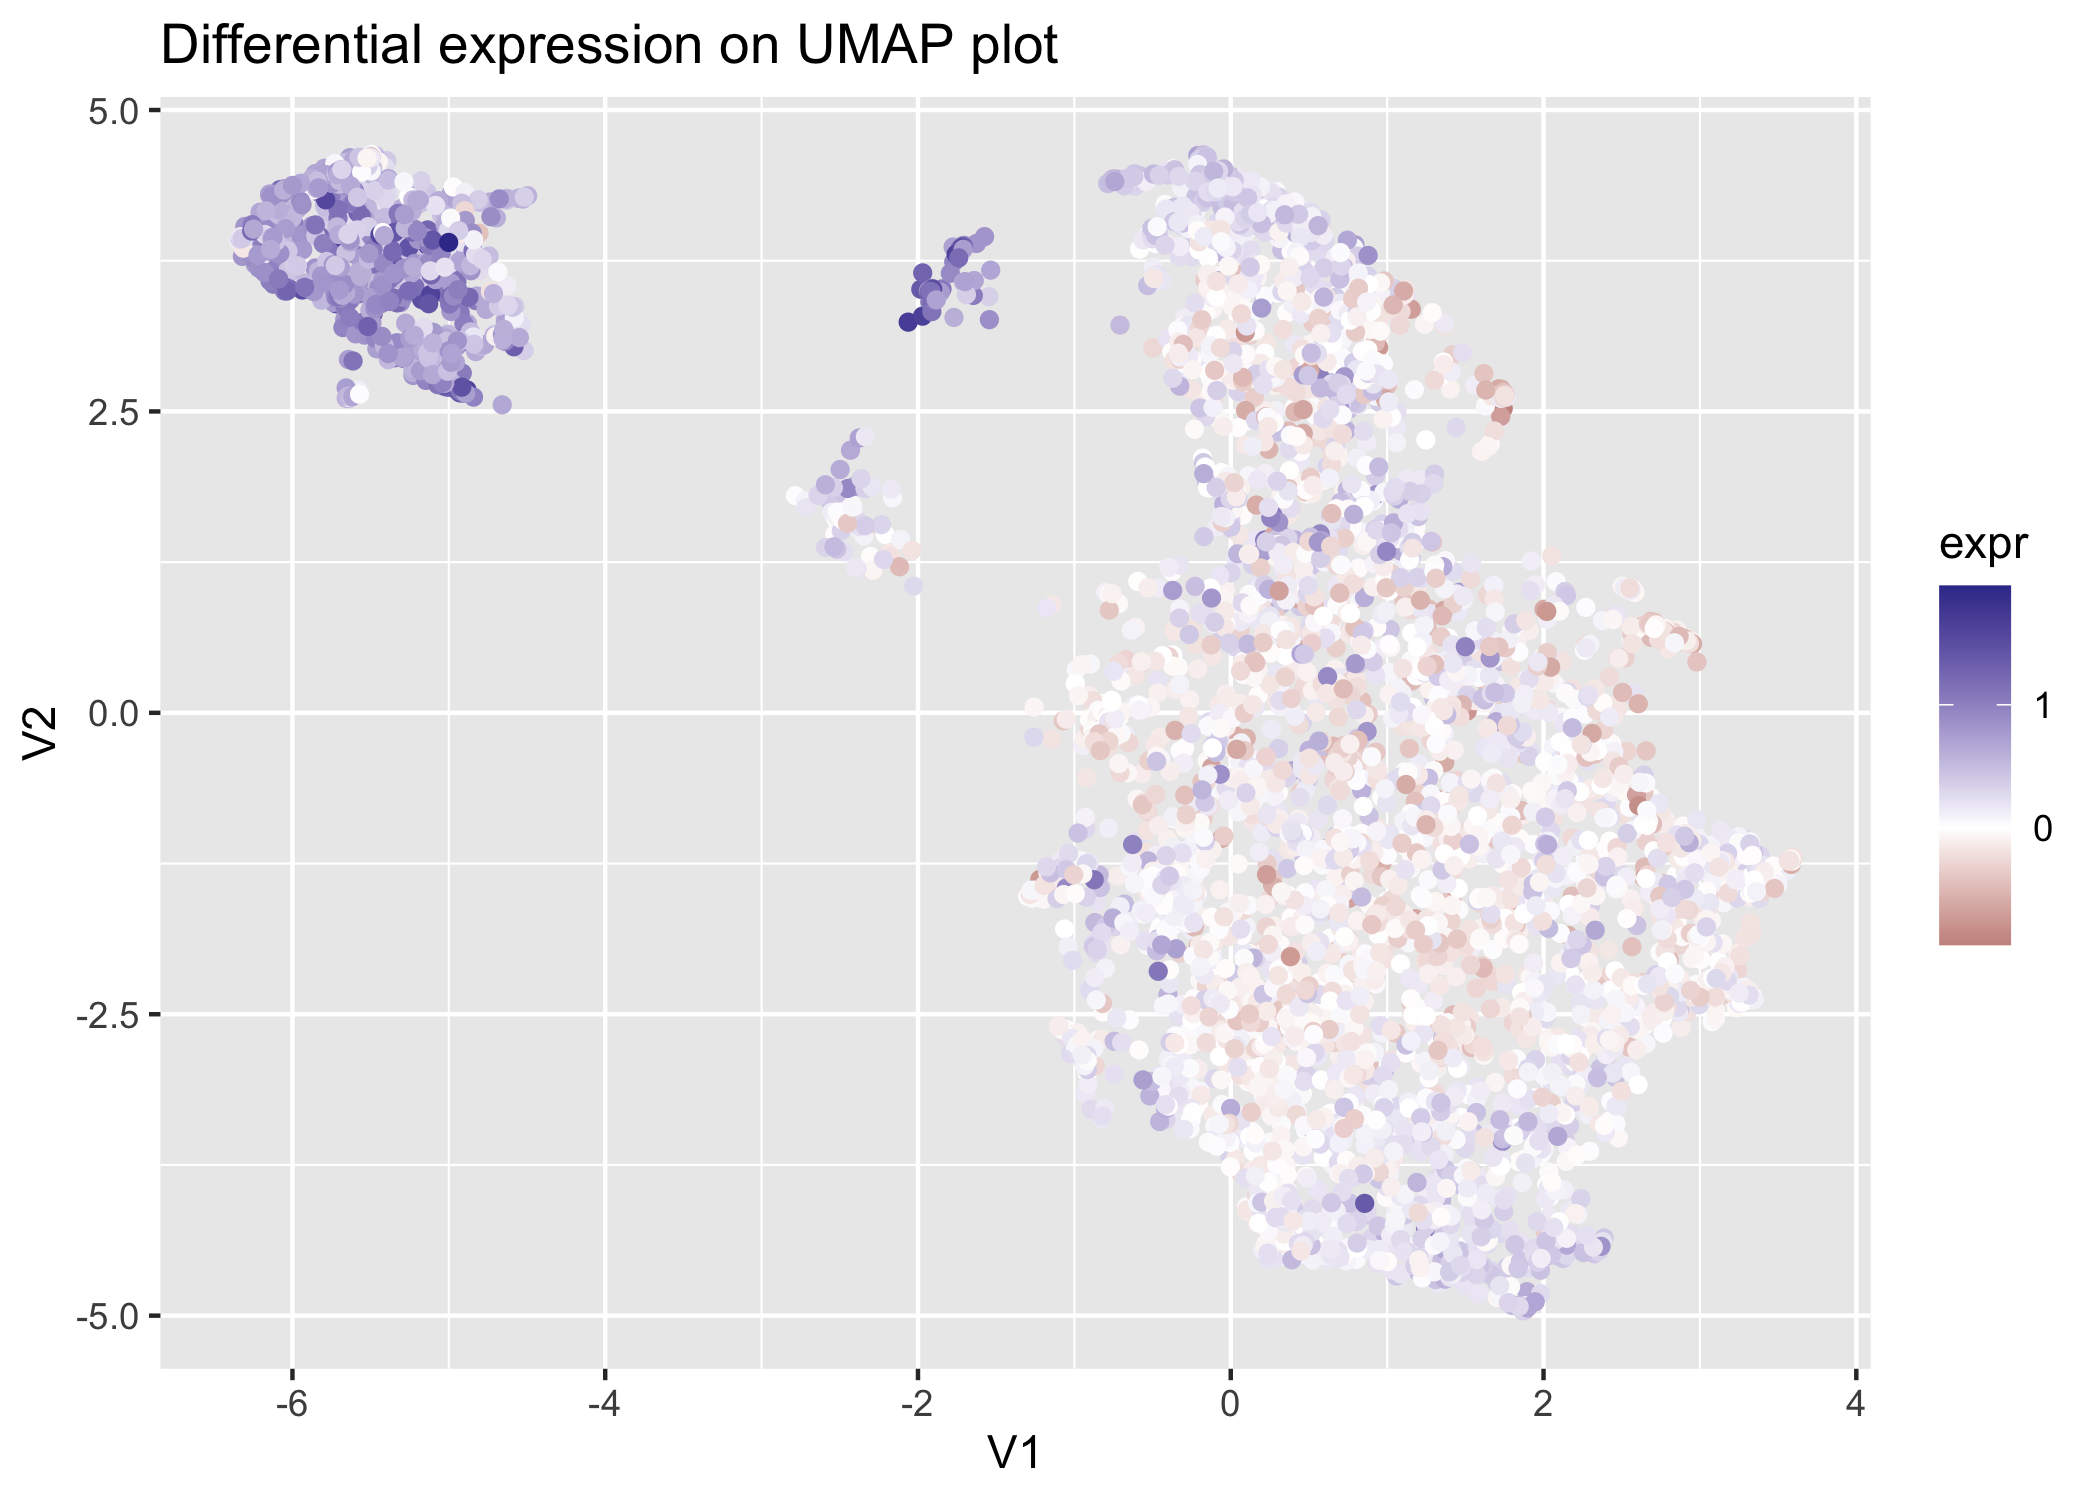
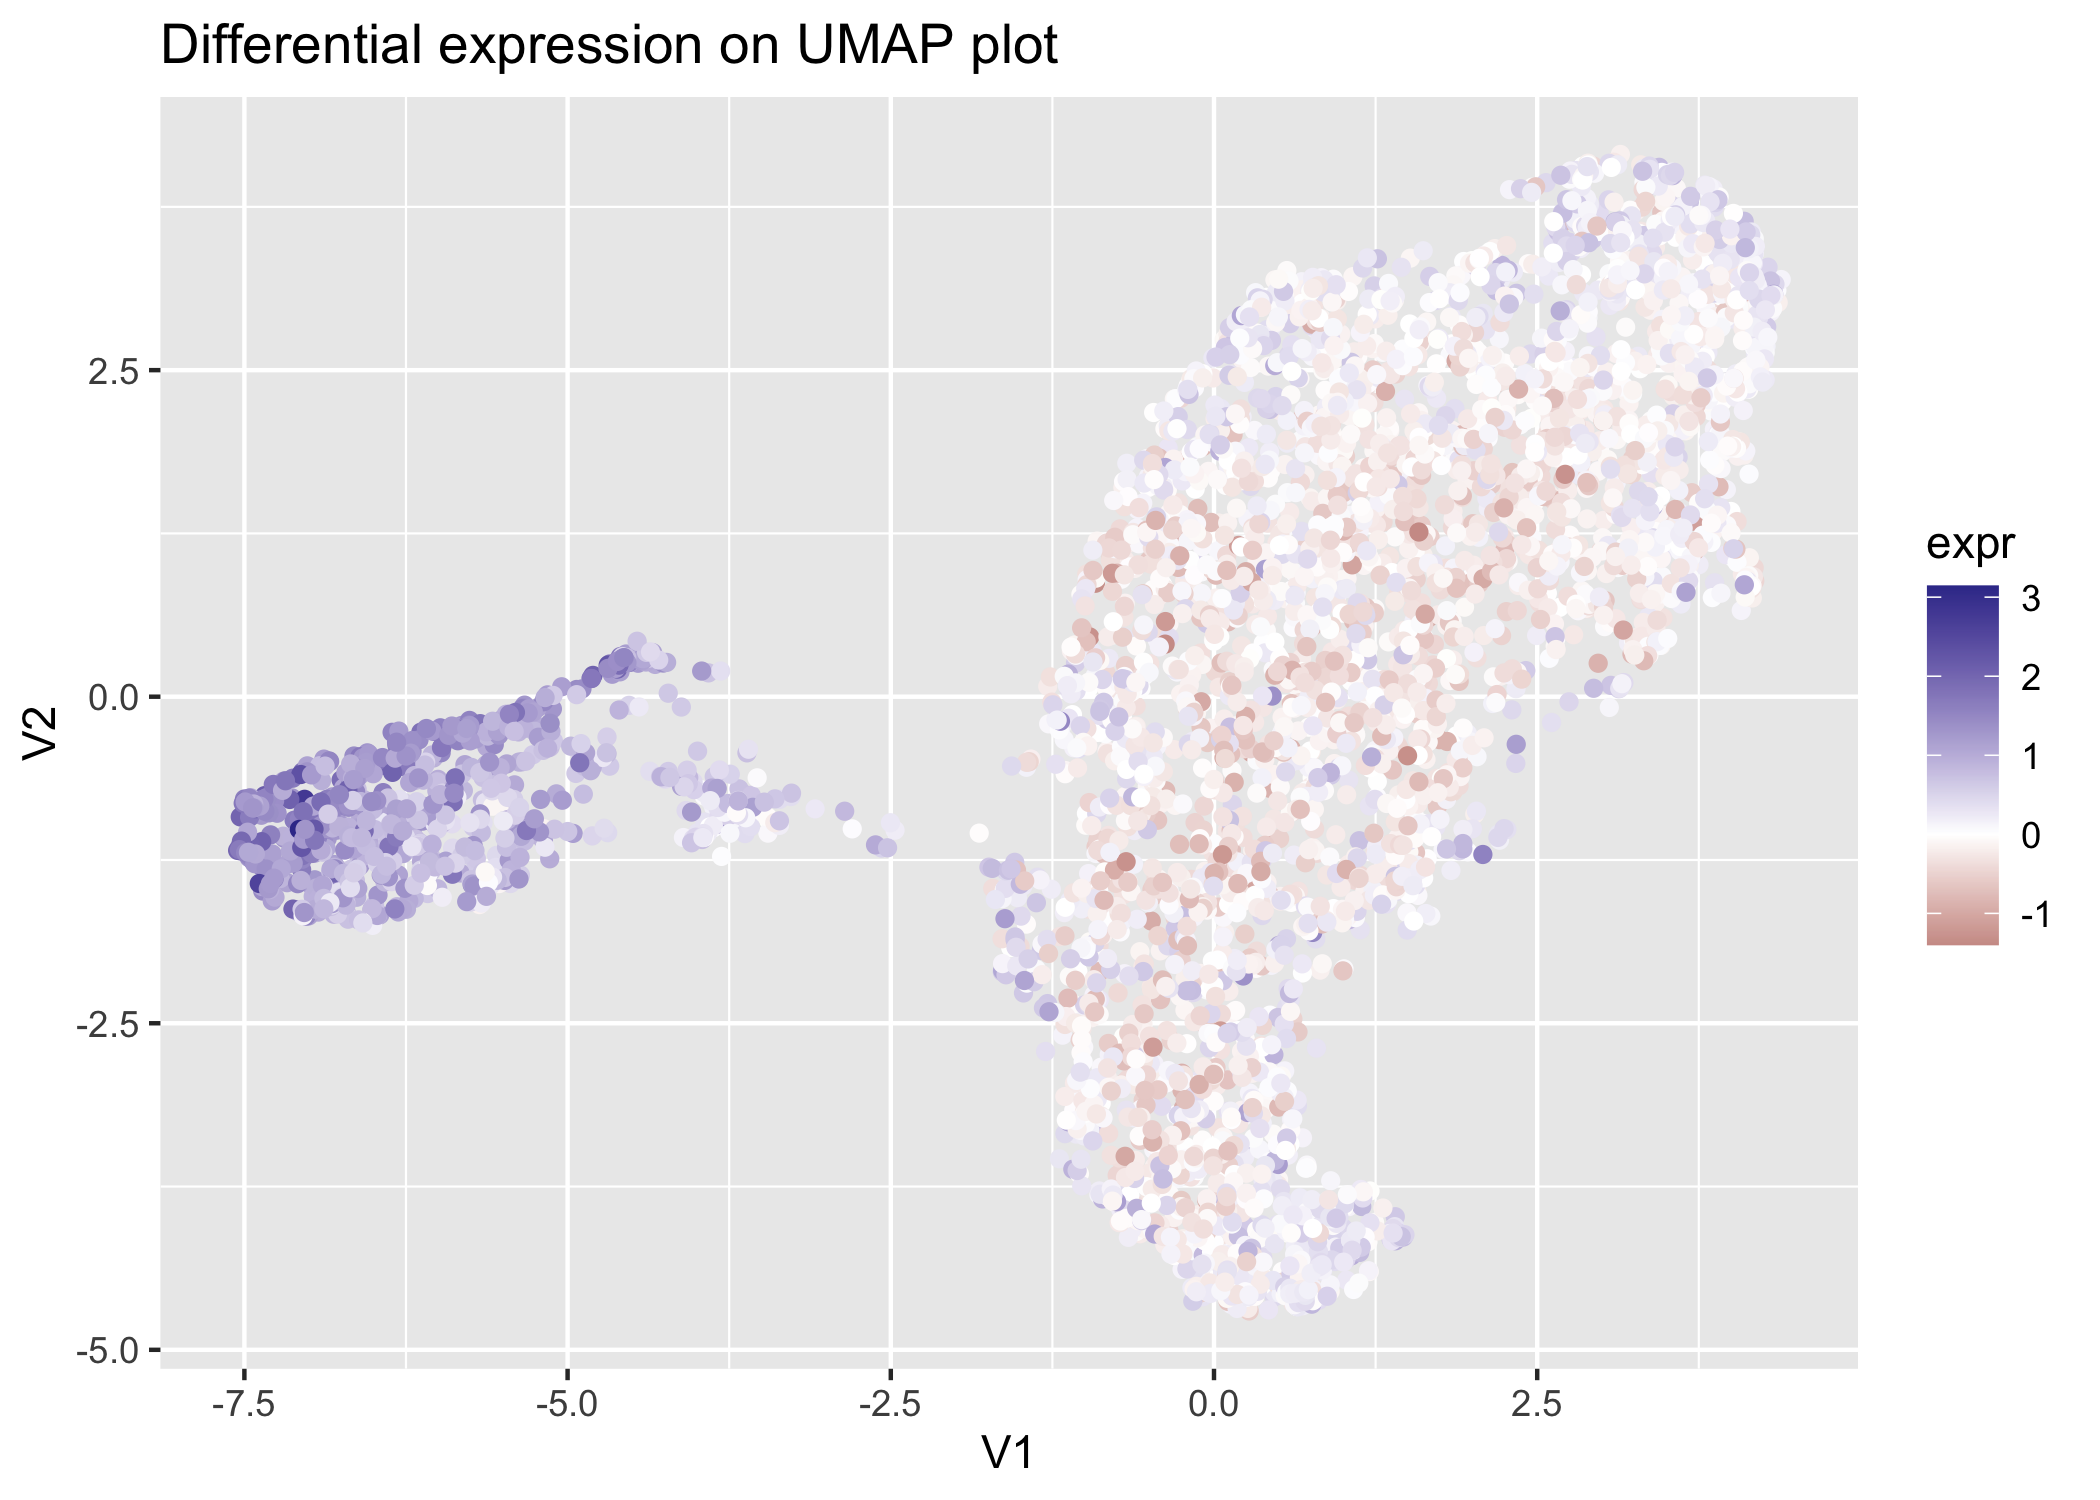
Update README

diff --git a/README.md b/README.md
@@ -108,6 +108,9 @@ as_tibble(orig_umap) %>%
 #> Warning: The `x` argument of `as_tibble.matrix()` must have unique column names if
 #> `.name_repair` is omitted as of tibble 2.0.0.
 #> ℹ Using compatibility `.name_repair`.
+#> This warning is displayed once every 8 hours.
+#> Call `lifecycle::last_lifecycle_warnings()` to see where this warning was
+#> generated.
 ```
 
 <img src="man/figures/README-raw_umap-1.png" width="100%" />
@@ -124,15 +127,14 @@ corresponding cells using manually annotated cell types
 ``` r
 fit <- lemur(glioblastoma_example_data, design = ~ patient_id + condition, n_embedding = 15, verbose = FALSE)
 
-# We can regularize the alignment either using ridge regression
-# or by allowing only rotations or stretching
-fit <- align_harmony(fit, stretching = FALSE)
+# We can regularize the alignment using ridge penalty
+fit <- align_harmony(fit, ridge_penalty = 0.5)
 #> Select cells that are considered close with 'harmony'
 
 fit
 #> class: lemur_fit 
 #> dim: 300 5000 
-#> metadata(10): n_embedding design ... alignment_design_matrix row_mask
+#> metadata(9): n_embedding design ... alignment_design_matrix row_mask
 #> assays(1): expr
 #> rownames(300): ENSG00000210082 ENSG00000118785 ... ENSG00000167468
 #>   ENSG00000139289
@@ -208,19 +210,19 @@ as_tibble(neighborhoods) %>%
   left_join(as_tibble(rowData(fit)), by = c("name" = "gene_id")) %>%
   dplyr::select(name, symbol, n_cells, pval, adj_pval)
 #> # A tibble: 300 × 5
-#>    name            symbol   n_cells       pval adj_pval
-#>    <chr>           <chr>      <int>      <dbl>    <dbl>
-#>  1 ENSG00000187193 MT1X        3323 0.00000788  0.00236
-#>  2 ENSG00000125144 MT1G        2034 0.0000196   0.00294
-#>  3 ENSG00000177700 POLR2L      4110 0.0000973   0.00915
-#>  4 ENSG00000147588 PMP2        3961 0.000124    0.00915
-#>  5 ENSG00000125148 MT2A        3554 0.000152    0.00915
-#>  6 ENSG00000245532 NEAT1       3587 0.000338    0.0153 
-#>  7 ENSG00000196126 HLA-DRB1     586 0.000356    0.0153 
-#>  8 ENSG00000069275 NUCKS1      4169 0.000578    0.0185 
-#>  9 ENSG00000156508 EEF1A1      2193 0.000592    0.0185 
-#> 10 ENSG00000169715 MT1E        3277 0.000664    0.0185 
-#> # … with 290 more rows
+#>    name            symbol n_cells      pval adj_pval
+#>    <chr>           <chr>    <int>     <dbl>    <dbl>
+#>  1 ENSG00000245532 NEAT1     3831 0.0000152  0.00244
+#>  2 ENSG00000187193 MT1X      4032 0.0000163  0.00244
+#>  3 ENSG00000125148 MT2A      3293 0.0000675  0.00586
+#>  4 ENSG00000147588 PMP2      3683 0.0000782  0.00586
+#>  5 ENSG00000169715 MT1E      3479 0.000287   0.0142 
+#>  6 ENSG00000156508 EEF1A1    2604 0.000327   0.0142 
+#>  7 ENSG00000177700 POLR2L    3466 0.000334   0.0142 
+#>  8 ENSG00000198668 CALM1     4087 0.000379   0.0142 
+#>  9 ENSG00000175899 A2M       3613 0.000563   0.0186 
+#> 10 ENSG00000069275 NUCKS1    3851 0.000672   0.0186 
+#> # ℹ 290 more rows
 ```
 
 We can now specifically select regions with significant differential
@@ -333,16 +335,19 @@ out myself. If you can share the data publicly, please open an issue.
 
 ``` r
 sessionInfo()
-#> R version 4.2.1 RC (2022-06-17 r82503)
-#> Platform: x86_64-apple-darwin17.0 (64-bit)
-#> Running under: macOS Big Sur ... 10.16
+#> R version 4.3.0 (2023-04-21)
+#> Platform: x86_64-apple-darwin20 (64-bit)
+#> Running under: macOS Big Sur 11.7
 #> 
 #> Matrix products: default
-#> BLAS:   /Library/Frameworks/R.framework/Versions/4.2/Resources/lib/libRblas.0.dylib
-#> LAPACK: /Library/Frameworks/R.framework/Versions/4.2/Resources/lib/libRlapack.dylib
+#> BLAS:   /Library/Frameworks/R.framework/Versions/4.3-x86_64/Resources/lib/libRblas.0.dylib 
+#> LAPACK: /Library/Frameworks/R.framework/Versions/4.3-x86_64/Resources/lib/libRlapack.dylib;  LAPACK version 3.11.0
 #> 
 #> locale:
 #> [1] en_US.UTF-8/en_US.UTF-8/en_US.UTF-8/C/en_US.UTF-8/en_US.UTF-8
+#> 
+#> time zone: Europe/Berlin
+#> tzcode source: internal
 #> 
 #> attached base packages:
 #> [1] stats4    stats     graphics  grDevices utils     datasets  methods  
@@ -350,46 +355,46 @@ sessionInfo()
 #> 
 #> other attached packages:
 #>  [1] lubridate_1.9.2             forcats_1.0.0              
-#>  [3] stringr_1.5.0               dplyr_1.1.0                
+#>  [3] stringr_1.5.0               dplyr_1.1.2                
 #>  [5] purrr_1.0.1                 readr_2.1.4                
-#>  [7] tidyr_1.3.0                 tibble_3.1.8               
-#>  [9] ggplot2_3.4.1               tidyverse_2.0.0            
-#> [11] SingleCellExperiment_1.20.0 SummarizedExperiment_1.28.0
-#> [13] Biobase_2.58.0              GenomicRanges_1.50.2       
-#> [15] GenomeInfoDb_1.34.9         IRanges_2.32.0             
-#> [17] S4Vectors_0.36.2            BiocGenerics_0.44.0        
-#> [19] MatrixGenerics_1.10.0       matrixStats_0.63.0         
+#>  [7] tidyr_1.3.0                 tibble_3.2.1               
+#>  [9] ggplot2_3.4.2               tidyverse_2.0.0            
+#> [11] SingleCellExperiment_1.22.0 SummarizedExperiment_1.30.0
+#> [13] Biobase_2.60.0              GenomicRanges_1.52.0       
+#> [15] GenomeInfoDb_1.36.0         IRanges_2.34.0             
+#> [17] S4Vectors_0.38.0            BiocGenerics_0.46.0        
+#> [19] MatrixGenerics_1.12.0       matrixStats_0.63.0         
 #> [21] lemur_0.0.15               
 #> 
 #> loaded via a namespace (and not attached):
-#>  [1] splines_4.2.1             DelayedMatrixStats_1.20.0
-#>  [3] expm_0.999-7              highr_0.10               
-#>  [5] GenomeInfoDbData_1.2.9    yaml_2.3.7               
-#>  [7] pillar_1.8.1              lattice_0.20-45          
-#>  [9] glue_1.6.2                digest_0.6.31            
-#> [11] XVector_0.38.0            colorspace_2.1-0         
-#> [13] cowplot_1.1.1             htmltools_0.5.4          
-#> [15] Matrix_1.5-3              pkgconfig_2.0.3          
-#> [17] zlibbioc_1.44.0           scales_1.2.1             
-#> [19] tzdb_0.3.0                timechange_0.2.0         
-#> [21] generics_0.1.3            farver_2.1.1             
-#> [23] ellipsis_0.3.2            withr_2.5.0              
-#> [25] harmony_0.1.1             cli_3.6.0                
-#> [27] magrittr_2.0.3            evaluate_0.20            
-#> [29] fansi_1.0.4               MASS_7.3-58.2            
-#> [31] tools_4.2.1               hms_1.1.2                
-#> [33] lifecycle_1.0.3           munsell_0.5.0            
-#> [35] DelayedArray_0.24.0       irlba_2.3.5.1            
-#> [37] isoband_0.2.7             compiler_4.2.1           
-#> [39] rlang_1.0.6               grid_4.2.1               
-#> [41] RCurl_1.98-1.10           rstudioapi_0.14          
-#> [43] RcppAnnoy_0.0.20          glmGamPoi_1.11.7         
-#> [45] bitops_1.0-7              labeling_0.4.2           
-#> [47] rmarkdown_2.20            gtable_0.3.1             
-#> [49] codetools_0.2-19          R6_2.5.1                 
-#> [51] knitr_1.42                fastmap_1.1.1            
-#> [53] uwot_0.1.14               utf8_1.2.3               
-#> [55] stringi_1.7.12            Rcpp_1.0.10              
-#> [57] vctrs_0.5.2               tidyselect_1.2.0         
-#> [59] xfun_0.37                 sparseMatrixStats_1.10.0
+#>  [1] gtable_0.3.3              xfun_0.39                
+#>  [3] lattice_0.21-8            tzdb_0.3.0               
+#>  [5] vctrs_0.6.2               tools_4.3.0              
+#>  [7] bitops_1.0-7              generics_0.1.3           
+#>  [9] fansi_1.0.4               highr_0.10               
+#> [11] pkgconfig_2.0.3           Matrix_1.5-4             
+#> [13] sparseMatrixStats_1.12.0  lifecycle_1.0.3          
+#> [15] GenomeInfoDbData_1.2.10   farver_2.1.1             
+#> [17] compiler_4.3.0            munsell_0.5.0            
+#> [19] codetools_0.2-19          glmGamPoi_1.12.0         
+#> [21] htmltools_0.5.5           RCurl_1.98-1.12          
+#> [23] yaml_2.3.7                crayon_1.5.2             
+#> [25] pillar_1.9.0              MASS_7.3-59              
+#> [27] uwot_0.1.14               DelayedArray_0.25.0      
+#> [29] tidyselect_1.2.0          digest_0.6.31            
+#> [31] stringi_1.7.12            labeling_0.4.2           
+#> [33] splines_4.3.0             cowplot_1.1.1            
+#> [35] fastmap_1.1.1             grid_4.3.0               
+#> [37] colorspace_2.1-0          cli_3.6.1                
+#> [39] harmony_0.1.1             magrittr_2.0.3           
+#> [41] utf8_1.2.3                withr_2.5.0              
+#> [43] DelayedMatrixStats_1.22.0 scales_1.2.1             
+#> [45] timechange_0.2.0          rmarkdown_2.21           
+#> [47] XVector_0.40.0            hms_1.1.3                
+#> [49] evaluate_0.20             knitr_1.42               
+#> [51] RcppAnnoy_0.0.20          irlba_2.3.5.1            
+#> [53] rlang_1.1.0               isoband_0.2.7            
+#> [55] Rcpp_1.0.10               glue_1.6.2               
+#> [57] rstudioapi_0.14           R6_2.5.1                 
+#> [59] zlibbioc_1.46.0
 ```
